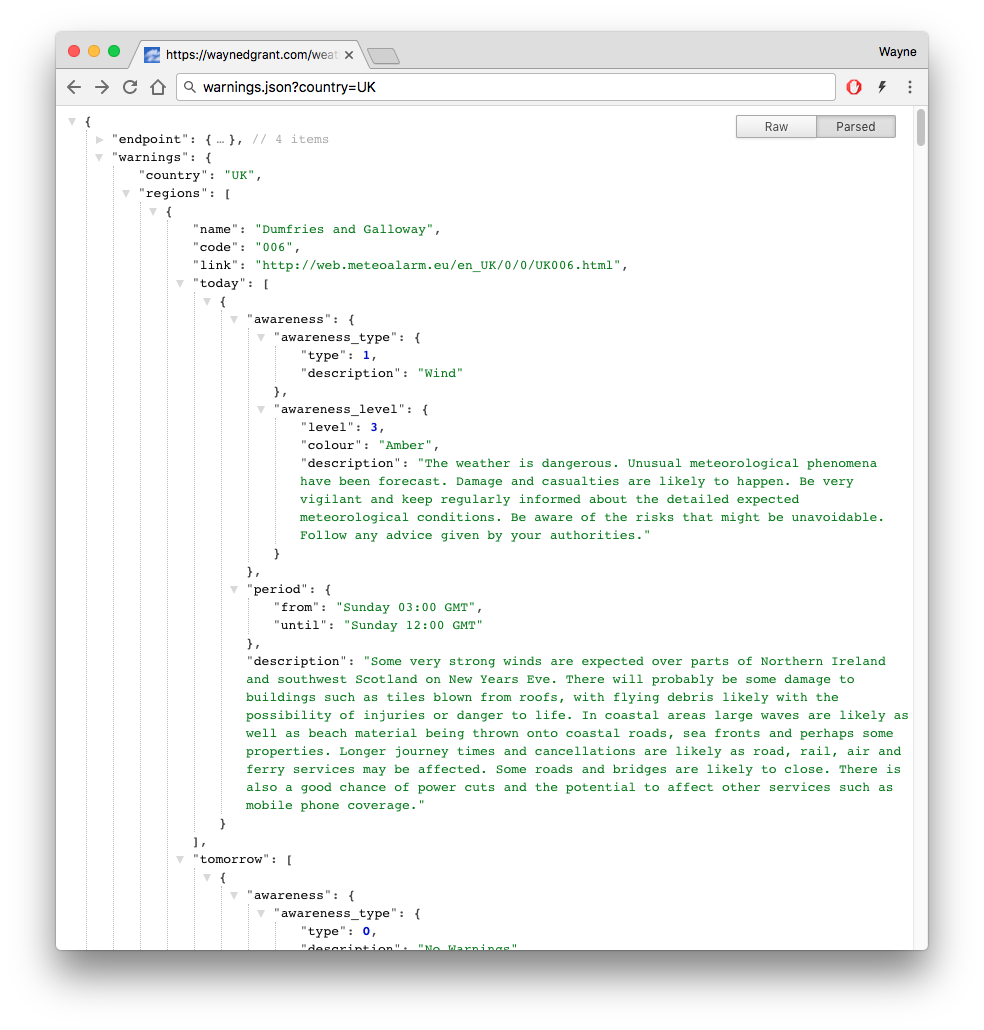
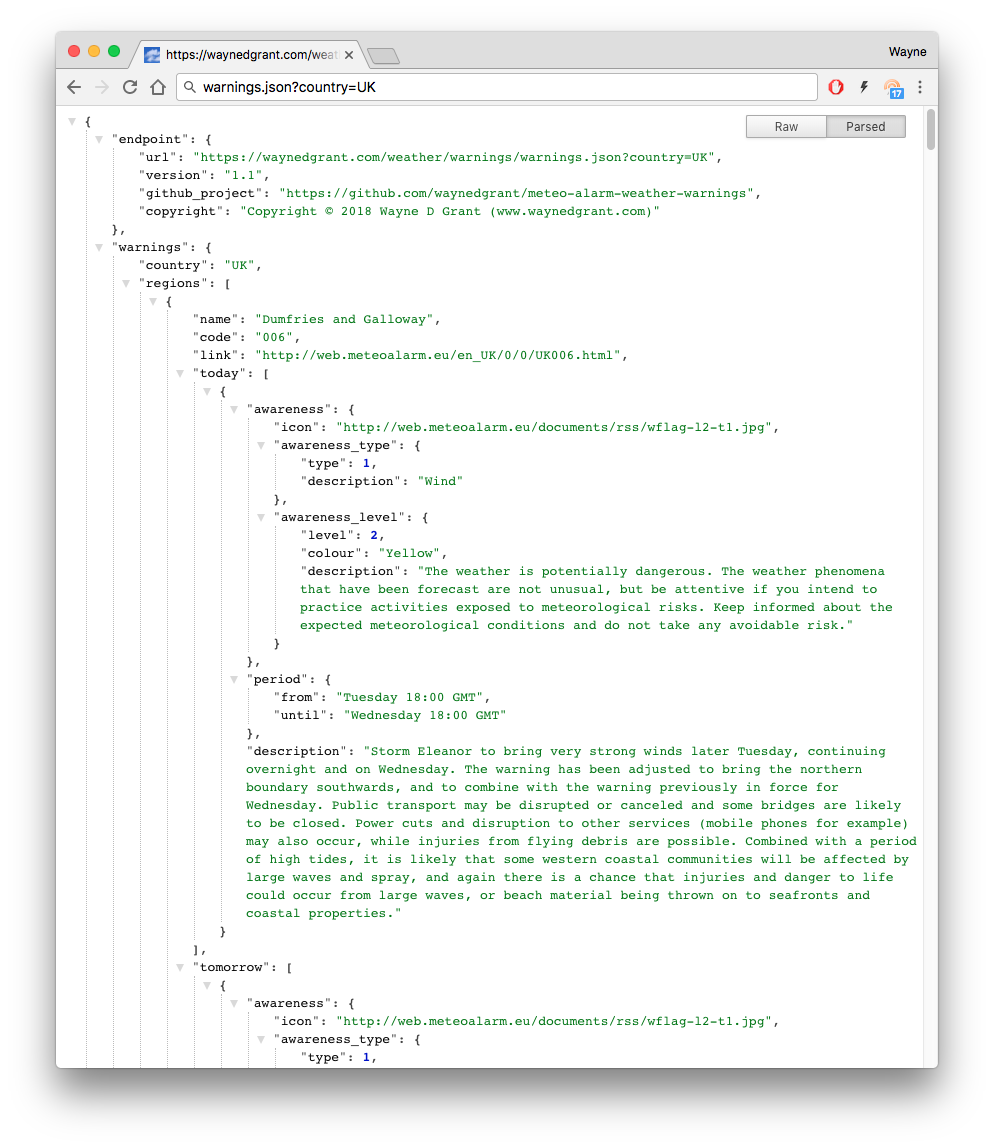
Update docs

Changed region(s): [[0.061, 0.0311, 0.9451, 0.932], [0.5488, 0.2485, 0.6098, 0.3107], [0.4878, 0.2485, 0.5183, 0.2796]]

diff --git a/README.md b/README.md
@@ -77,7 +77,7 @@ An example of a successful reply:
 {
     "endpoint": {
         "url": "https://waynedgrant.com/weather/warnings/warnings.json?country=UK",
-        "version": "1.0",
+        "version": "1.1",
         "github_project": "https://github.com/waynedgrant/meteo-alarm-weather-warnings",
         "copyright": "Copyright © 2018 Wayne D Grant (www.waynedgrant.com)"
     },
@@ -91,6 +91,7 @@ An example of a successful reply:
                 "today": [
                     {
                         "awareness": {
+                            "icon": "http://web.meteoalarm.eu/documents/rss/wflag-l3-t1.jpg",
                             "awareness_type": {
                                 "type": 1,
                                 "description": "Wind"
